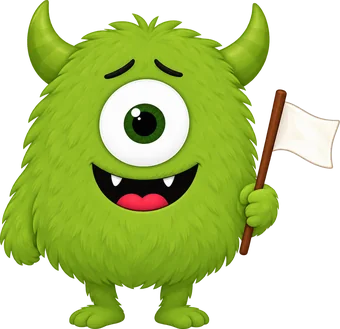
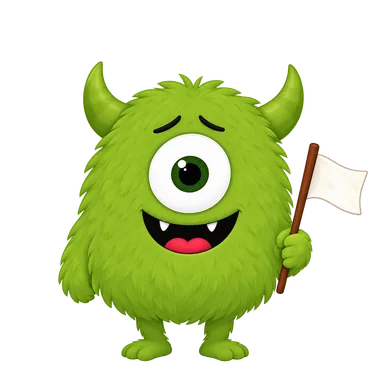
Rezepte-App: alle Monster gleich groß
Die acht Figuren haben jetzt dieselbe Körpergröße, dieselbe Standlinie
und dieselbe Bildfläche.

Claude-Session: https://claude.ai/code/session_01ANBwiYeTGKgTDBWFPuZz2C

diff --git a/neu-bauplan/src/template.html b/neu-bauplan/src/template.html
@@ -258,16 +258,16 @@ body { overflow-x: clip; }
 @media (prefers-reduced-motion: reduce) { .swipe.fliegt, .swipe.zurueck { transition: none; } }
 /* Monster */
 img.m { display: block; height: auto; }
-.zitat.mit { margin-top: 46px; padding-top: 92px; }
-.zitat.mit img.m { position: absolute; top: -52px; left: 50%; transform: translateX(-50%); width: 104px; }
+.zitat.mit { margin-top: 56px; padding-top: 86px; }
+.zitat.mit img.m { position: absolute; top: -66px; left: 50%; transform: translateX(-50%); width: 140px; }
 .zitat.mit::before { top: 40px; }
-.leer img.m { width: 118px; }
+.leer img.m { width: 160px; margin-block: -12px -4px; }
 .gedanken { display: grid; grid-template-columns: minmax(0, 1fr); gap: 12px; }
 @media (min-width: 640px) { .gedanken { grid-template-columns: repeat(2, minmax(0, 1fr)); gap: 16px; } }
-.gedanke { margin: 0; background: var(--creme); border-radius: 30px 40px 34px 44px; padding: 16px 20px 16px 14px; display: grid; grid-template-columns: 78px minmax(0, 1fr); gap: 2px 14px; align-items: center; max-width: 560px; }
+.gedanke { margin: 0; background: var(--creme); border-radius: 30px 40px 34px 44px; padding: 12px 20px 12px 8px; display: grid; grid-template-columns: 104px minmax(0, 1fr); gap: 2px 8px; align-items: center; max-width: 560px; }
 .gedanken .gedanke { max-width: none; }
 .gedanken .gedanke:nth-child(4n+2), .gedanken .gedanke:nth-child(4n+3) { background: var(--tuerkis-hell); }
-.gedanke img.m { width: 78px; grid-row: span 2; }
+.gedanke img.m { width: 104px; grid-row: span 2; }
 .gedanke blockquote { margin: 0; font-family: var(--display); font-size: clamp(19px, 4.8vw, 22px); letter-spacing: .04em; line-height: 1.15; align-self: end; text-wrap: balance; }
 .gedanke blockquote::before { content: "\201E"; }
 .gedanke blockquote::after { content: "\201C"; }

diff --git a/neu/index.html b/neu/index.html
@@ -275,16 +275,16 @@ body { overflow-x: clip; }
 @media (prefers-reduced-motion: reduce) { .swipe.fliegt, .swipe.zurueck { transition: none; } }
 /* Monster */
 img.m { display: block; height: auto; }
-.zitat.mit { margin-top: 46px; padding-top: 92px; }
-.zitat.mit img.m { position: absolute; top: -52px; left: 50%; transform: translateX(-50%); width: 104px; }
+.zitat.mit { margin-top: 56px; padding-top: 86px; }
+.zitat.mit img.m { position: absolute; top: -66px; left: 50%; transform: translateX(-50%); width: 140px; }
 .zitat.mit::before { top: 40px; }
-.leer img.m { width: 118px; }
+.leer img.m { width: 160px; margin-block: -12px -4px; }
 .gedanken { display: grid; grid-template-columns: minmax(0, 1fr); gap: 12px; }
 @media (min-width: 640px) { .gedanken { grid-template-columns: repeat(2, minmax(0, 1fr)); gap: 16px; } }
-.gedanke { margin: 0; background: var(--creme); border-radius: 30px 40px 34px 44px; padding: 16px 20px 16px 14px; display: grid; grid-template-columns: 78px minmax(0, 1fr); gap: 2px 14px; align-items: center; max-width: 560px; }
+.gedanke { margin: 0; background: var(--creme); border-radius: 30px 40px 34px 44px; padding: 12px 20px 12px 8px; display: grid; grid-template-columns: 104px minmax(0, 1fr); gap: 2px 8px; align-items: center; max-width: 560px; }
 .gedanken .gedanke { max-width: none; }
 .gedanken .gedanke:nth-child(4n+2), .gedanken .gedanke:nth-child(4n+3) { background: var(--tuerkis-hell); }
-.gedanke img.m { width: 78px; grid-row: span 2; }
+.gedanke img.m { width: 104px; grid-row: span 2; }
 .gedanke blockquote { margin: 0; font-family: var(--display); font-size: clamp(19px, 4.8vw, 22px); letter-spacing: .04em; line-height: 1.15; align-self: end; text-wrap: balance; }
 .gedanke blockquote::before { content: "\201E"; }
 .gedanke blockquote::after { content: "\201C"; }

diff --git a/neu-bauplan/tools/monster.py b/neu-bauplan/tools/monster.py
@@ -1,0 +1,47 @@
+"""Bringt alle Monster auf dieselbe Größe: gleicher Körper (Füße bis Hornspitze), gleiche Standlinie, gleiche Bildfläche."""
+import sys, os, numpy as np
+from PIL import Image
+from scipy import ndimage
+S = sys.argv[1]; U = '/root/.claude/uploads/714a0e9d-e2ed-5fd4-8abe-1a3aa7661807/'
+M = {'kontrolle':'8991ad21','balance':'4c5002e8','stress':'2f6e62b7','reiz':'7fc3ae58','gewohnheit':'b1f13718','belohnung':'14322552','allesnichts':'25597778','trost':'65e7df53'}
+ZIEL = 300  # Körperhöhe in Pixeln
+teile = {}
+for name, f in M.items():
+    im = Image.open(U + f + '-image.png').convert('RGBA')
+    a = np.array(im.getchannel('A')); a[a < 40] = 0
+    im.putalpha(Image.fromarray(a))
+    maske = a > 120
+    lab, n = ndimage.label(maske)
+    gr = ndimage.sum(maske, lab, range(1, n + 1)); haupt = lab == (int(np.argmax(gr)) + 1)
+    ys, xs = np.where(haupt); oben, unten = ys.min(), ys.max()
+    h = unten - oben + 1
+    # Körpermitte aus dem Rumpf (mittlere Zeilen, mittlere 60 % der Breite gewichtet über den Median)
+    mitte = []
+    for y in range(int(oben + h * 0.45), int(oben + h * 0.8)):
+        zx = np.where(haupt[y])[0]; mitte.append((zx.min() + zx.max()) / 2)
+    cx = float(np.median(mitte))
+    # Rumpfbreite als zweites Maß, damit dünne und breite Figuren vergleichbar bleiben
+    breiten = [np.ptp(np.where(haupt[y])[0]) for y in range(int(oben + h * 0.55), int(oben + h * 0.75))]
+    ay, ax = np.where(maske)
+    teile[name] = dict(im=im, h=h, cx=cx, unten=unten, rumpf=float(np.median(breiten)), links=cx - ax.min(), rechts=ax.max() - cx, hoch=unten - ay.min())
+    print(f"{name:12} Körperhöhe {h:5} Rumpfbreite {teile[name]['rumpf']:6.0f}  Verhältnis {teile[name]['rumpf']/h:.2f}")
+# Maßstab je Figur: gleiche Körperhöhe
+for t in teile.values(): t['k'] = ZIEL / t['h']
+halb = max(max(t['links'], t['rechts']) * t['k'] for t in teile.values())
+hoch = max(t['hoch'] * t['k'] for t in teile.values())
+W, H = int(2 * halb + 12), int(hoch + 12)
+os.makedirs(S + '/app/assets/monster', exist_ok=True)
+for name, t in teile.items():
+    im = t['im']; k = t['k']
+    kl = im.resize((round(im.width * k), round(im.height * k)), Image.LANCZOS)
+    blatt = Image.new('RGBA', (W, H), (0, 0, 0, 0))
+    blatt.alpha_composite(kl, (round(W / 2 - t['cx'] * k), round(H - 6 - (t['unten'] + 1) * k)))
+    out = S + '/app/assets/monster/' + name + '.webp'
+    blatt.save(out, 'WEBP', quality=84, method=6)
+print('Bildfläche', W, 'x', H)
+namen = ['allesnichts', 'reiz', 'balance', 'gewohnheit', 'belohnung', 'kontrolle', 'trost', 'stress']
+sheet = Image.new('RGB', (len(namen) * (W // 2 + 6), H // 2 + 20), (232, 250, 250))
+for i, n in enumerate(namen):
+    im = Image.open(S + '/app/assets/monster/' + n + '.webp').convert('RGBA').resize((W // 2, H // 2), Image.LANCZOS)
+    sheet.paste(im, (i * (W // 2 + 6) + 3, 10), im)
+sheet.save(S + '/app/check/monster-sheet.png')
